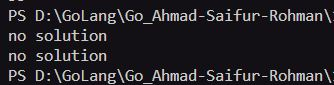
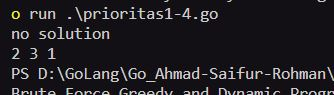
section 11 update prioritas 1-4

diff --git a/11_Problem Solving Paradigm - Brute Force Greedy and Dynamic Programming/Praktikum/prioritas 1/prioritas1-4.go b/11_Problem Solving Paradigm - Brute Force Greedy and Dynamic Programming/Praktikum/prioritas 1/prioritas1-4.go
@@ -2,20 +2,34 @@ package main
 
 import (
 	"fmt"
-	// "math"
+	"math"
+	// "sort"
 )
-func simpleEquations(a,b,c int)  {
-	// for x := int(math.Sqrt(float64(c))); x <= a/3; x++ {
-	// 	for y := x; y <= (a-x)/2; y++ {
-	// 		z := a - x - y
-	// 		if x*y*z == b && x*x+y*y+z*z == c {
-	// 			fmt.Print(x, y, z)
-	// 		}
-	// 	}
-	// }
-	fmt.Println("no solution")
+
+func simpleEquations(a, b, c int){
+    x, y, z := 0, 0, 0
+	found:=false
+    for i := 1; i <= int(math.Sqrt(float64(b))); i++ {
+        if b % i == 0 {
+            j := b / i
+            for k := -int(math.Sqrt(float64(c))); k <= int(math.Sqrt(float64(c))); k++ {
+                if i != j && i != k && j != k && i + j + k == a && i * j * k == b && i*i + j*j + k*k == c {
+                    x = i
+                    y = j
+                    z = k
+					found = true
+                }
+            }
+        }
+    }
+	if found==true {
+		fmt.Println(x,y,z)
+	}else{
+		fmt.Println("no solution")
+	}
 }
+
 func main() {
-	simpleEquations(1, 2, 3)
-	simpleEquations(6, 6, 14)
+   simpleEquations(1,2,3)
+   simpleEquations(6,6,14)
 }
